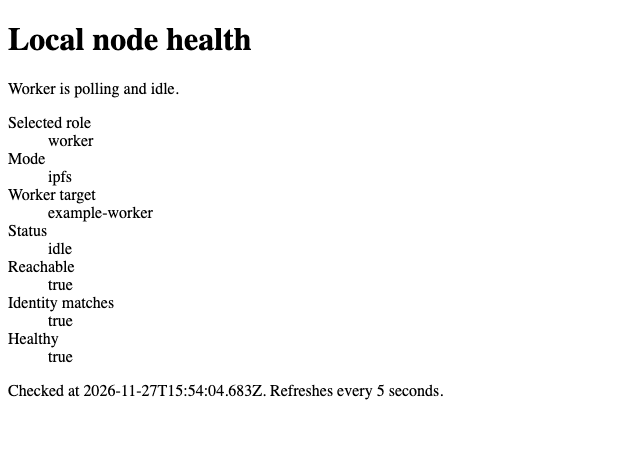
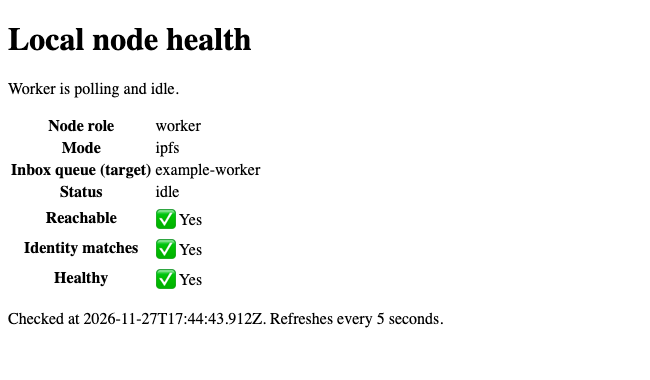
Clarify node role and inbox queue in the health table

diff --git a/node/production/operator-status.md b/node/production/operator-status.md
@@ -12,6 +12,8 @@ Status needs no Docker, host npm installation, environment-secret file, Keychain
 
 Run `node node/production/scripts/operator-view.mjs --profile "$OYA_LOCAL_DIR/operator.json"` and open the printed loopback URL on the same device. The page refreshes every five seconds and shows the selected identity, validated health state and time of the last check. An unreachable endpoint is not proof the node stopped.
 
+The node role comes from the profile: a `direct` node accepts requests directly, while a `worker` polls an inbox for jobs. The inbox queue (target) is the configured name of the queue the worker polls. Direct nodes have no queue row.
+
 The viewer reads the profile at startup. Press Ctrl-C to stop it or restart after changing configuration. Other processes on the same host can read the page while it runs.
 
 ## Private profile

diff --git a/plans/local-node-status-view.md b/plans/local-node-status-view.md
@@ -9,6 +9,8 @@ Open a page on the operator’s device and see whether the selected worker or di
 - [x] 2026-11-25 05:37Z: Traced the installed operator profile, validated status and bundle allowlist.
 - [x] 2026-11-25 05:40Z: Implemented and packaged the page. The focused suite passed 22 tests and the full production suite passed 697 on Node 24.
 
+- [x] 2026-11-27: Clarified the role and inbox queue, presented health checks in a table, and refreshed the browser screenshot. All 697 production tests passed.
+
 ## Surprises & Discoveries
 
 `operatorStatus` already distinguishes failure to reach the endpoint from a node reporting that it stopped. Reusing this result preserves that distinction.
